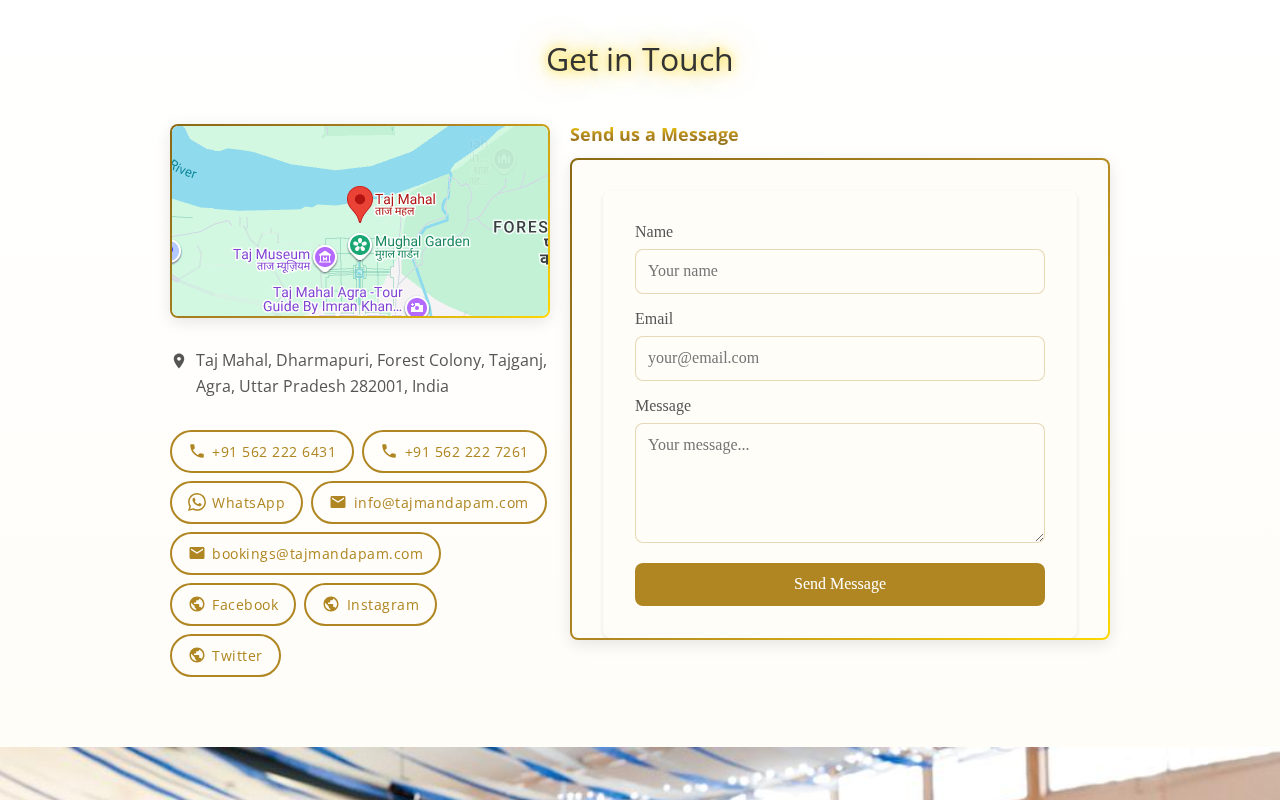
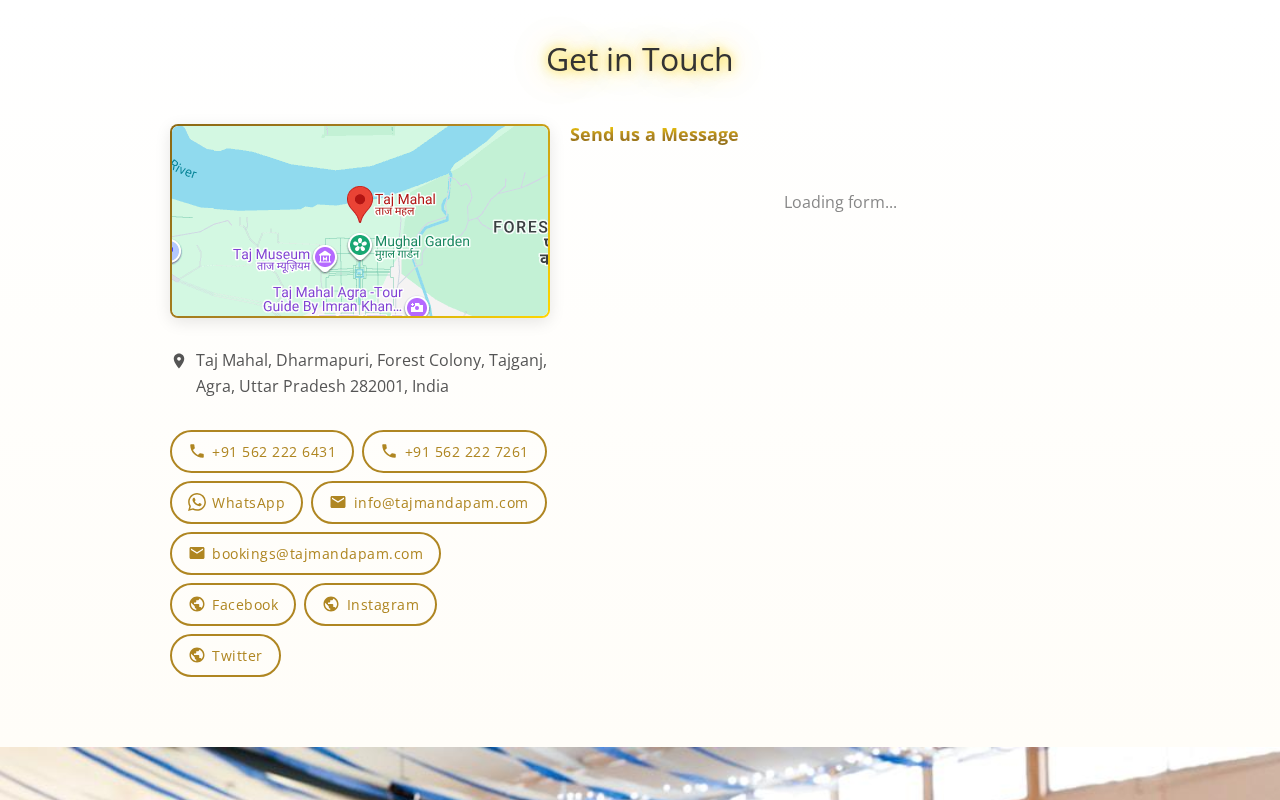
Use HTMX to embed contact form natively
- Replace iframe with HTMX hx-get to load form dynamically
- Add HTMX library to baseof.html
- Style form elements natively with theme styles
- Remove iframe-specific styling

diff --git a/assets/scss/pages/contact/_contact.scss b/assets/scss/pages/contact/_contact.scss
@@ -62,21 +62,99 @@
   }
 }
 
-.contact-form-iframe {
-  border-radius: 8px;
-  box-shadow: 0 4px 16px rgba(0, 0, 0, 0.1);
-  border: 2px solid transparent;
-  background: linear-gradient(#fffdf8, #fffdf8) padding-box,
-              linear-gradient(135deg, #8B6914, $primary, #FFD700) border-box;
-  overflow: hidden;
+.contact-form {
+  .form-loading {
+    padding: 2rem;
+    text-align: center;
+    color: #888;
+  }
 
-  iframe {
-    width: calc(100% + 2px);
-    min-height: 480px;
-    border: none;
+  .form-group {
+    margin-bottom: 1rem;
+  }
+
+  label {
     display: block;
-    border-radius: 6px;
-    margin: -1px;
+    margin-bottom: 0.4rem;
+    font-weight: 500;
+    color: #333;
+    font-size: 0.9rem;
+  }
+
+  input[type="text"],
+  input[type="email"],
+  input[type="tel"],
+  textarea {
+    width: 100%;
+    padding: 0.6rem 0.8rem;
+    font-family: 'Open Sans', Helvetica, Arial, sans-serif;
+    font-size: 0.95rem;
+    border: 2px solid rgba(175, 134, 34, 0.3);
+    border-radius: 8px;
+    background: #fffdf8;
+    color: #333;
+    transition: border-color 0.2s ease, box-shadow 0.2s ease;
+
+    &:focus {
+      outline: none;
+      border-color: $primary;
+      box-shadow: 0 0 0 3px rgba(175, 134, 34, 0.15);
+    }
+
+    &::placeholder {
+      color: #999;
+    }
+  }
+
+  textarea {
+    min-height: 100px;
+    resize: vertical;
+  }
+
+  button[type="submit"],
+  input[type="submit"] {
+    display: inline-block;
+    padding: 0.7rem 1.5rem;
+    font-family: 'Open Sans', Helvetica, Arial, sans-serif;
+    font-size: 0.95rem;
+    font-weight: 600;
+    color: #fff;
+    background: linear-gradient(135deg, #8B6914 0%, $primary 50%, #D4A84B 100%);
+    border: none;
+    border-radius: 50px;
+    cursor: pointer;
+    transition: all 0.3s ease;
+    box-shadow: 0 4px 15px rgba(175, 134, 34, 0.3);
+
+    &:hover {
+      background: linear-gradient(135deg, $primary 0%, #D4A84B 50%, #FFD700 100%);
+      box-shadow: 0 6px 20px rgba(175, 134, 34, 0.4);
+      transform: translateY(-2px);
+    }
+  }
+
+  // Success/error messages
+  .alert,
+  .form-message {
+    padding: 0.75rem 1rem;
+    border-radius: 8px;
+    margin-bottom: 1rem;
+    font-size: 0.9rem;
+  }
+
+  .alert-success,
+  .form-success {
+    background: #d4edda;
+    color: #155724;
+    border: 1px solid #c3e6cb;
+  }
+
+  .alert-error,
+  .alert-danger,
+  .form-error {
+    background: #f8d7da;
+    color: #721c24;
+    border: 1px solid #f5c6cb;
   }
 }
 

diff --git a/layouts/partials/contact-section.html b/layouts/partials/contact-section.html
@@ -67,10 +67,12 @@
                 {{ with $contact.form }}
                 <div class="contact-form-container">
                     <h3><strong>Send us a Message</strong></h3>
-                    <div class="contact-form-iframe">
-                        {{- $formCSS := ":root{--cf-font-family:'Open Sans',Helvetica,Arial,sans-serif;--cf-primary-color:#AF8622;--cf-primary-hover:#D4A84B;--cf-border-color:rgba(175,134,34,0.3);--cf-border-radius:8px;--cf-form-bg:#fffdf8;}" -}}
-                        {{- $separator := cond (strings.Contains . "?") "&" "?" -}}
-                        <iframe src="{{ . }}{{ $separator }}css={{ $formCSS | urlquery }}" title="Contact Form" loading="lazy" scrolling="no"></iframe>
+                    <div class="contact-form"
+                         hx-get="{{ . }}"
+                         hx-trigger="load"
+                         hx-select=".contact-form"
+                         hx-swap="innerHTML">
+                        <div class="form-loading">Loading form...</div>
                     </div>
                 </div>
                 {{ end }}

diff --git a/layouts/_default/baseof.html b/layouts/_default/baseof.html
@@ -57,6 +57,8 @@
   <script type="module" src="{{ $script.RelPermalink }}"></script>
   {{ end }}
 
+  <script src="https://unpkg.com/htmx.org@2.0.4" integrity="sha384-HGfztofotfshcF7+8n44JQL2oJmowVChPTg48S+jvZoztPfvwD79OC/LTtG6dMp+" crossorigin="anonymous"></script>
+
   {{ block "header_css" . }} {{ end }}
   {{ block "header_js" . }} {{ end }}
 </head>
